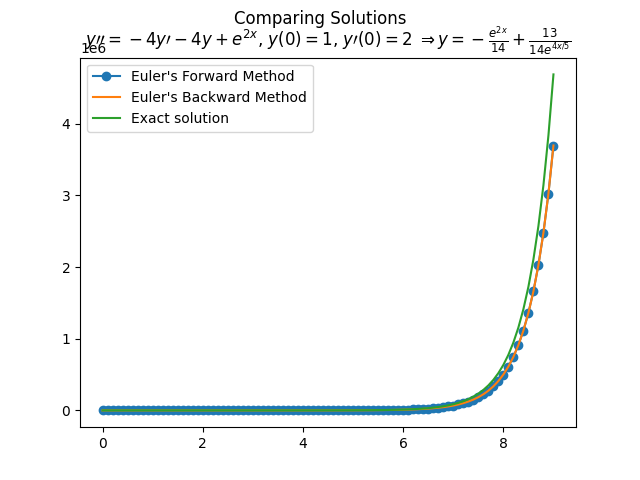
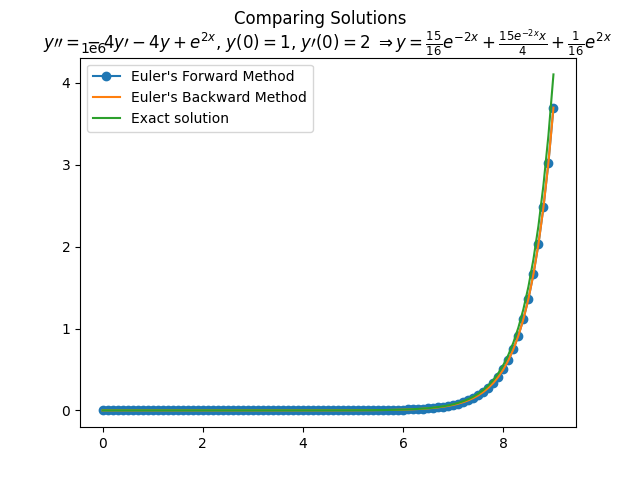
Updated photos

diff --git a/second_order_compare.py b/second_order_compare.py
@@ -10,7 +10,7 @@ def f_prime_prime(x, y, y_prime):
 
 # The solution to f_prime_prime
 def f(x):
-    return (math.e**(2*x))/14 + 13/(14 * math.e**(4*x/5))
+    return 15/16 * math.e**(-2*x) + (15 * math.e**(-2*x) * x)/4 + 1/16 * math.e**(2*x)
 
 # Set up calls to Euler's method:
 x0, xf = 0, 9
@@ -28,7 +28,7 @@ plt.plot(x, y_b, label='Euler\'s Backward Method')
 plt.plot(x, y_exact_vector, label='Exact solution')
 
 plt.suptitle('Comparing Solutions')
-plt.title(r'$y\prime\prime=-4y\prime-4y+e^{2x}$, $y(0)=1$, $y\prime(0)=2$ $\Rightarrow y=-\frac{e^{2x}}{14}+\frac{13}{14e^{4x/5}}$')
+plt.title(r'$y\prime\prime=-4y\prime-4y+e^{2x}$, $y(0)=1$, $y\prime(0)=2$ $\Rightarrow y=\frac{15}{16}e^{-2x}+\frac{15e^{-2x}x}{4}+\frac{1}{16}e^{2x}$')
 plt.legend()
 plt.show()
 
